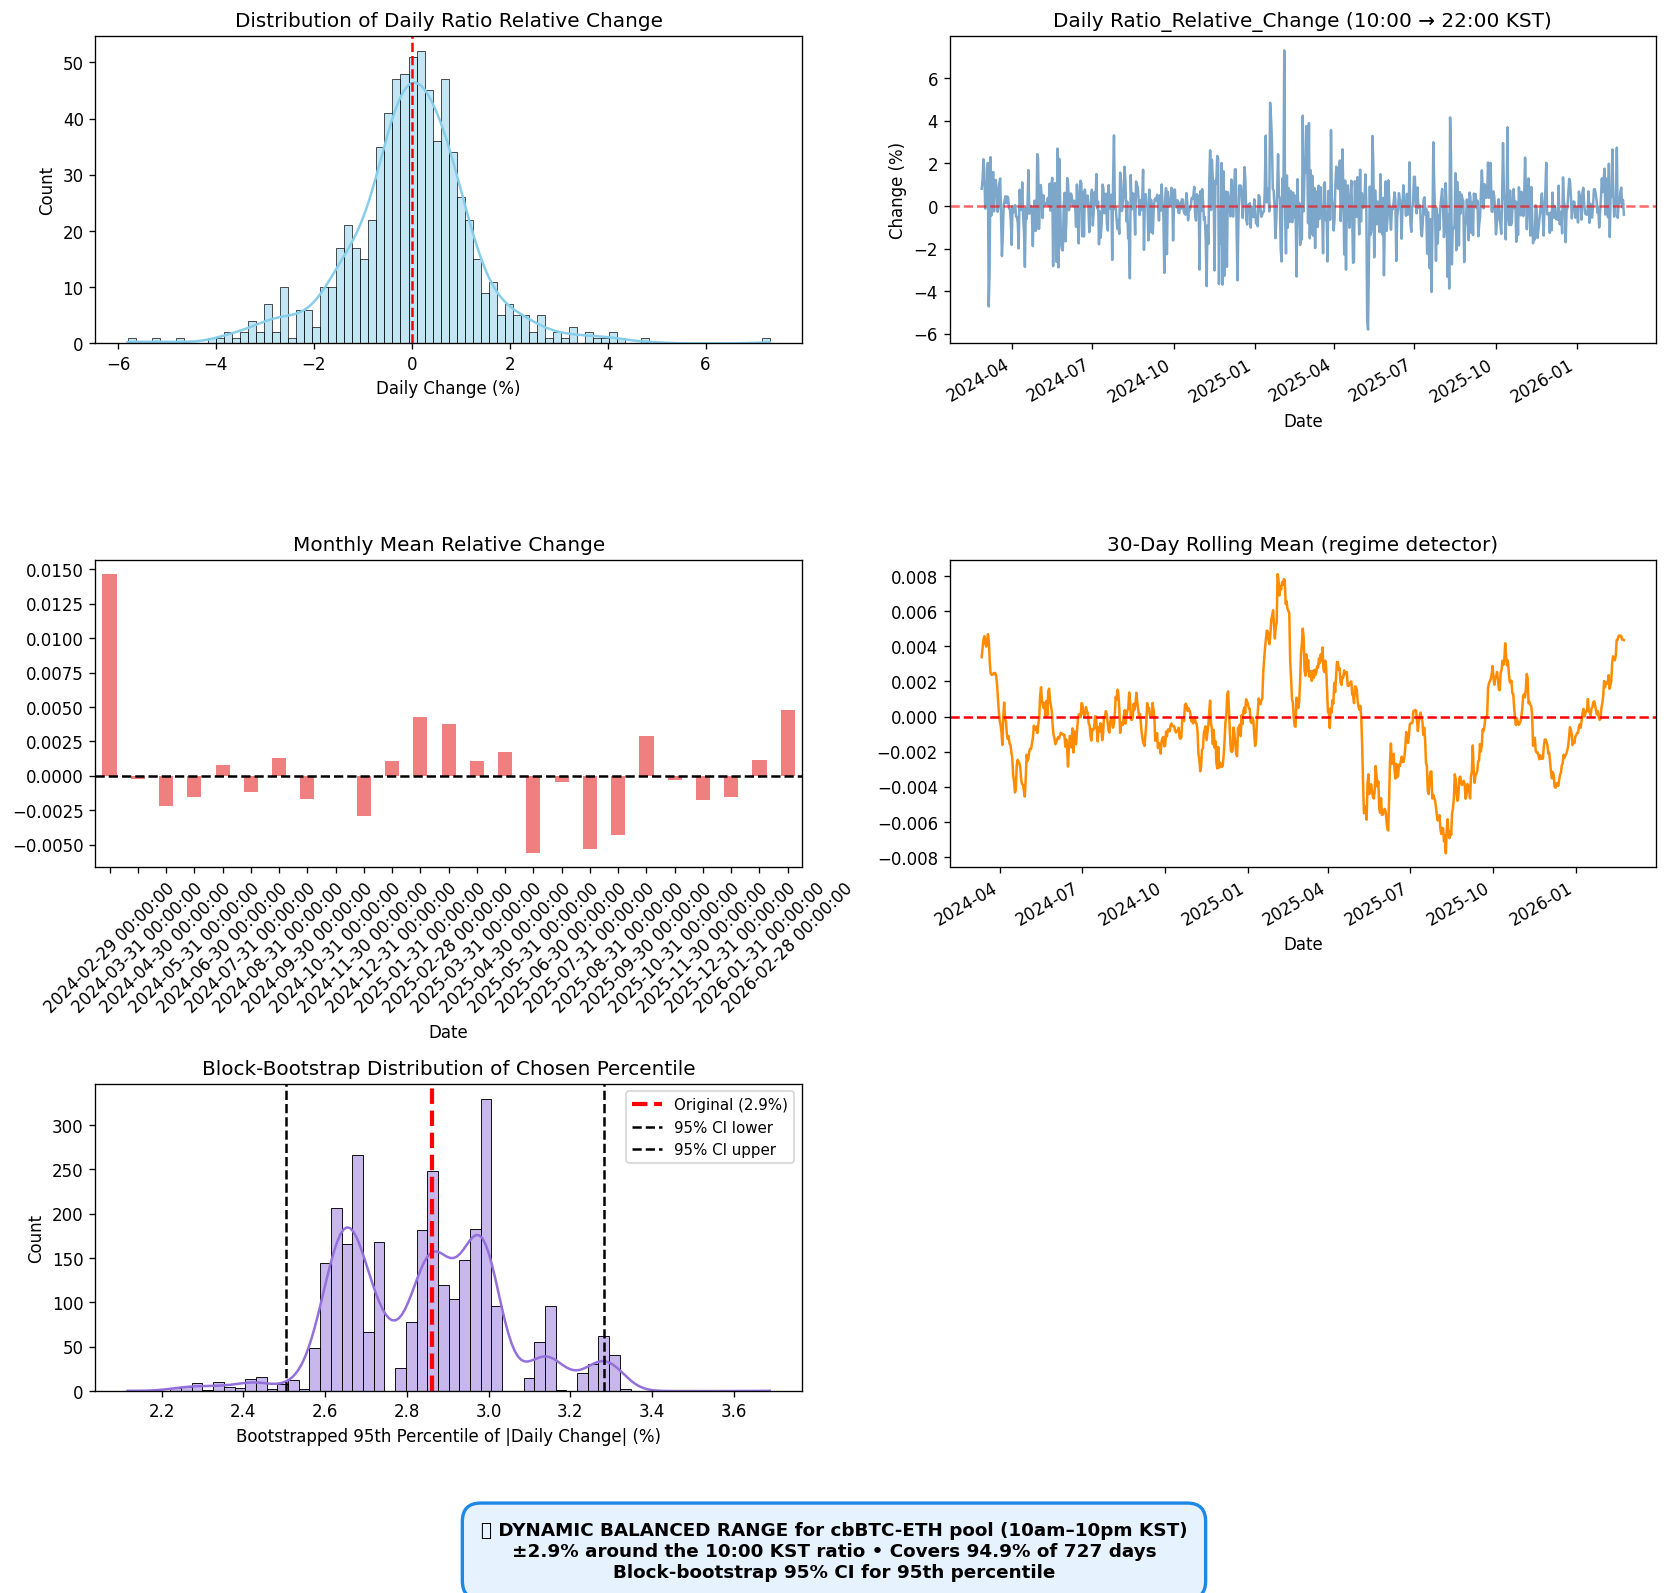
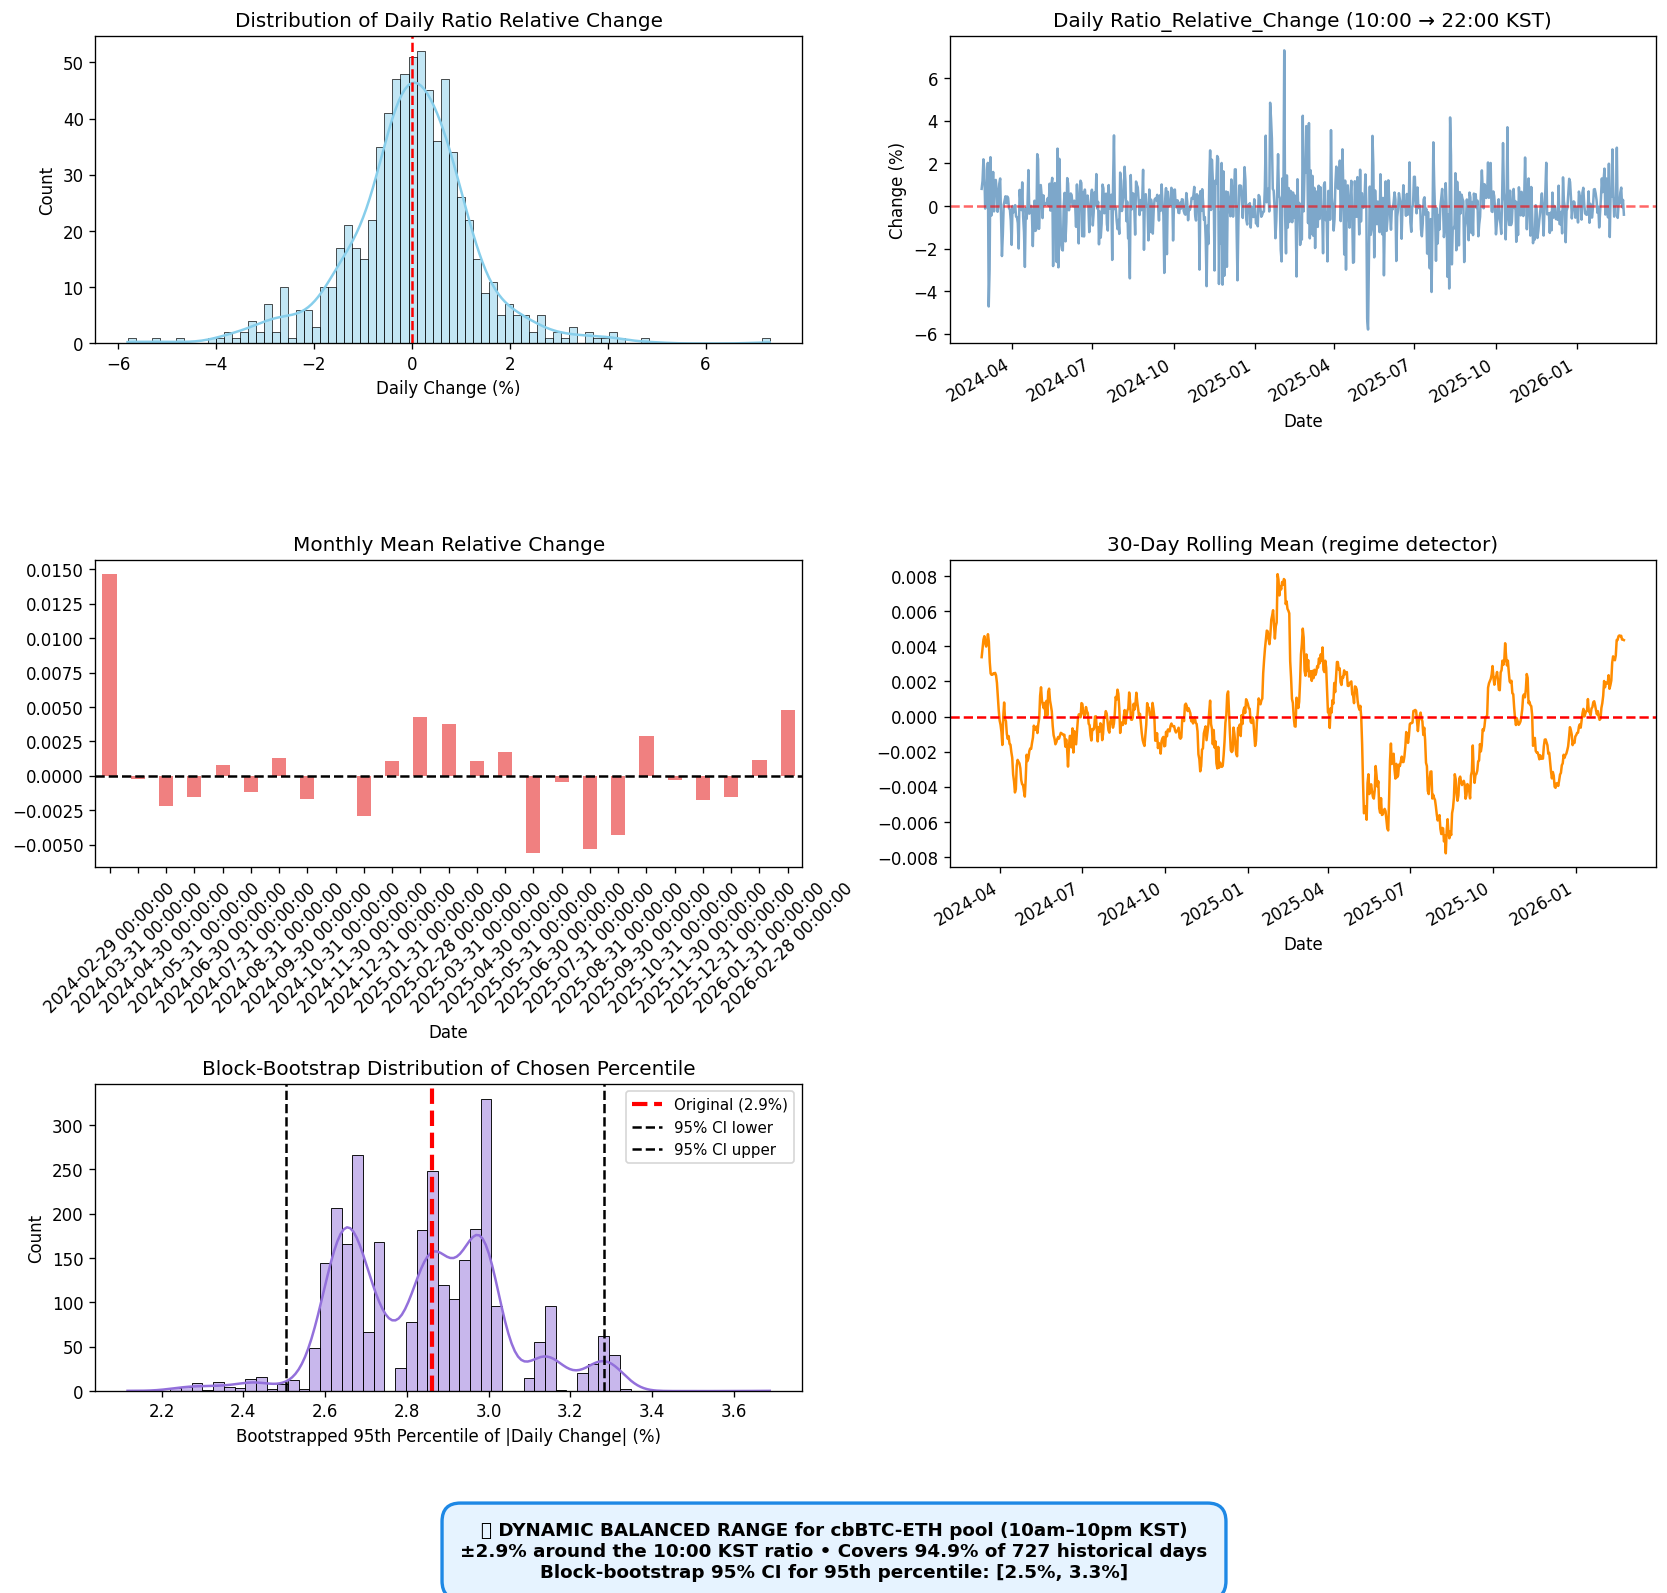
added ci values

Changed region(s): [[0.2496, 0.9228, 0.7487, 1.0]]

diff --git a/src/v2/statsLook_day.py b/src/v2/statsLook_day.py
@@ -204,11 +204,11 @@ plt.legend(fontsize=9, loc='upper right')
 
 plt.tight_layout(rect=[0, 0.085, 1, 0.96])
 
-# Clean centered text box (no more "shown in purple..." line)
+# UPDATED BOTTOM TEXT BOX WITH CI VALUES
 plt.figtext(0.5, 0.015,
             f"💡 DYNAMIC BALANCED RANGE for cbBTC-ETH pool (10am–10pm KST)\n"
-            f"±{balanced_range_pct}% around the 10:00 KST ratio • Covers {coverage_pct:.1f}% of {len(changes)} days\n"
-            f"Block-bootstrap 95% CI for {PERCENTILE}th percentile",
+            f"±{balanced_range_pct}% around the 10:00 KST ratio • Covers {coverage_pct:.1f}% of {len(changes)} historical days\n"
+            f"Block-bootstrap 95% CI for {PERCENTILE}th percentile: [{ci95_p[0]*100:.1f}%, {ci95_p[1]*100:.1f}%]",
             ha='center', va='bottom', fontsize=11, fontweight='bold',
             bbox=dict(boxstyle="round,pad=1.0", facecolor="#E6F3FF", edgecolor="#1E88E5", linewidth=2))
 
